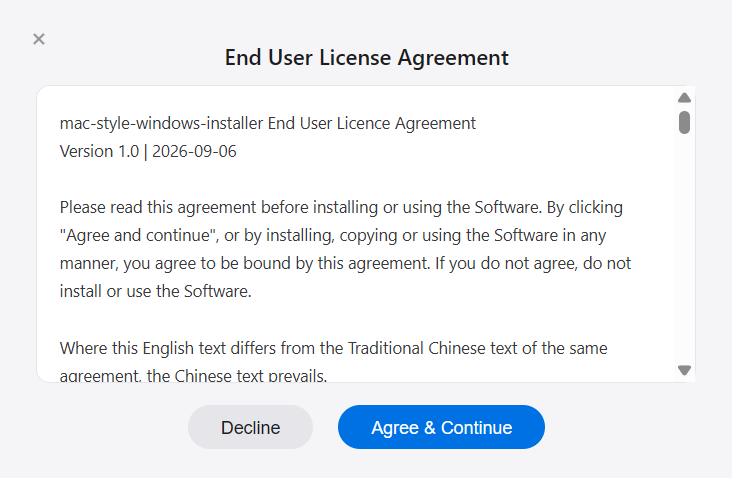
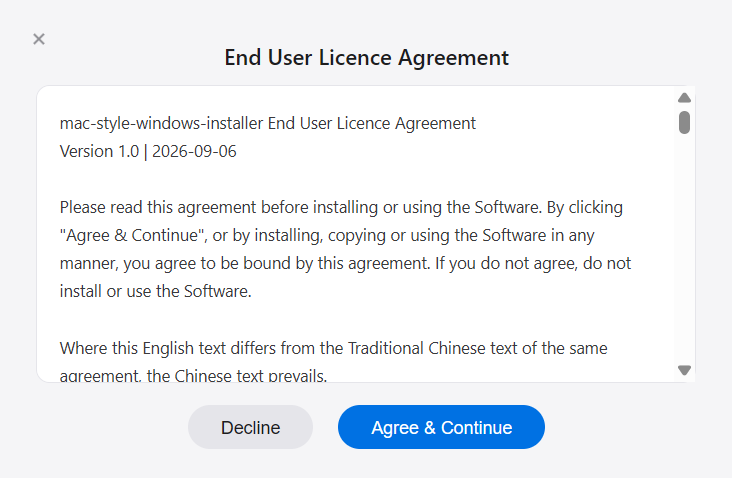
fix(ui): 英文介面的拼法與合約一致，並修正合約引用到一個不存在的按鈕
使用者看畫面時發現的兩處。

一、安裝畫面的標題是 "End User License Agreement"（美式），而框裡的合約
全文通篇用 "Licence"（英式）——同一個畫面兩種拼法。介面統一改用英式，
配置精靈的欄位標籤一併改（只改一處等於把不一致搬到另一個地方）。MIT
License 是專有名稱，維持原樣。

二、合約英文版引用按鈕文字寫 "Agree and continue"，而按鈕實際上是
"Agree & Continue"。合約以「點選該按鈕即表示同意」為成立要件，引用的字與
畫面對不上時，那句話指向一個不存在的按鈕。中文版原本就是對的。

兩條測試釘住：介面不得出現美式的 License Agreement；合約引用的按鈕文字直接
從 ui/index.html 的 btn_accept 讀出來比對，兩種語言各自都要對得上。

Changed region(s): [[0.1503, 0.4686, 0.8415, 0.5272], [0.3005, 0.0879, 0.6913, 0.1464]]

diff --git a/ui/config.html b/ui/config.html
@@ -897,7 +897,7 @@
                 no_file_selected: "No file selected", note_png_icon: "Shown as the icon inside the install window.",
                 label_ico_icon: "Executable Icon (ICO required)", btn_browse_ico: "Choose ICO File",
                 note_ico_icon: "Used as the installer's icon in Windows Explorer.",
-                label_eula: "End User License Agreement (EULA, optional)",
+                label_eula: "End User Licence Agreement (EULA, optional)",
                 note_eula: "Leave empty to skip the agreement screen entirely. You can add multiple language versions and supply the text for each yourself; the end user's version is picked automatically based on their system language, falling back to the \"default/fallback language\" below when there's no match.",
                 btn_add_eula_lang: "+ Add Language Version",
                 label_eula_default_lang: "Default / Fallback Language",

diff --git a/ui/index.html b/ui/index.html
@@ -517,7 +517,7 @@
                 password_wrong_error: "Incorrect password, please try again",
                 password_unusable_error: "This installer is marked as password protected but contains no encrypted application files, so it cannot install. Ask whoever supplied it for a rebuilt version.",
                 btn_password_submit: "OK",
-                eula_title: "End User License Agreement",
+                eula_title: "End User Licence Agreement",
                 btn_decline: "Decline",
                 btn_accept: "Agree & Continue",
                 loading: "Loading...",

diff --git a/tests/test_eula_consistency.py b/tests/test_eula_consistency.py
@@ -161,6 +161,54 @@ class ThePlainTextIsActuallyPlain(unittest.TestCase):
             self.assertGreater(longest, 120, lang)
 
 
+class TheInterfaceSpellsItTheSameWay(unittest.TestCase):
+    """介面的英文字串與合約內文用同一種拼法。
+
+    使用者實際看出來的問題：安裝畫面的標題是 "End User License Agreement"
+    （美式），而框裡的合約全文通篇用 "Licence"（英式）——同一個畫面兩種拼法。
+    兩者哪一種都可以，但必須是同一種。
+    """
+
+    UI_FILES = {
+        "installer": os.path.join(REPO_ROOT, "ui", "index.html"),
+        "config wizard": os.path.join(REPO_ROOT, "ui", "config.html"),
+    }
+
+    def test_the_agreement_uses_the_british_spelling(self):
+        """先確認合約這一邊是哪一種，介面才有對齊的對象。"""
+        self.assertIn("Licence Agreement", _read(PLAIN["en"]))
+
+    def test_no_interface_string_says_license_agreement(self):
+        # 只回報有幾處，不把整份 HTML 塞進失敗訊息裡——那份檔案兩千多行，
+        # 印出來只會把真正的訊息推出畫面外。
+        for name, path in self.UI_FILES.items():
+            found = _read(path).count("License Agreement")
+            self.assertEqual(found, 0,
+                             f"{os.path.basename(path)}（{name}）有 {found} 處"
+                             "用了美式拼法，與合約內文的 Licence 不一致")
+
+    def test_the_mit_licence_keeps_its_own_spelling(self):
+        """MIT License 是專有名稱，不隨這個決定改。"""
+        self.assertIn("MIT License", _read(LICENSE))
+
+    def test_the_agreement_quotes_the_button_that_actually_exists(self):
+        """合約以「點選某個按鈕即表示同意」為成立要件，引用的字要與畫面上的
+        按鈕一字不差。英文版原本寫 "Agree and continue"，而按鈕是
+        "Agree & Continue"——那句話指向一個不存在的按鈕。
+        """
+        source = _read(self.UI_FILES["installer"])
+        for lang, pattern in (("zh-TW", r'btn_accept:\s*"([^"]+)"'),
+                              ("en", r'btn_accept:\s*"([^"]+)"')):
+            labels = re.findall(pattern, source)
+            self.assertTrue(labels, "找不到 btn_accept 的字串")
+        # 兩種語言的翻譯表各有一個 btn_accept，依出現順序對應 zh-TW、en
+        # （i18n 表的排列順序，見 ui/index.html）。
+        self.assertEqual(len(labels), 2, "btn_accept 的數量與預期不符")
+        for label, lang in zip(labels, ("zh-TW", "en")):
+            self.assertIn(label, _read(PLAIN[lang]),
+                          f"{lang} 的合約沒有引用畫面上那個按鈕：{label}")
+
+
 class ThePackagingFlowCanTakeTheAgreementFromAConfigFile(unittest.TestCase):
     """`/released` 的打包步驟靠「設定檔帶條款、旗標帶其餘」這個組合。
 

diff --git a/docs/EULA.md b/docs/EULA.md
@@ -237,7 +237,7 @@
 
 **End User Licence Agreement**
 
-Please read this agreement before installing or using the Software. By clicking "Agree and continue", or by installing, copying or using the Software in any manner, you agree to be bound by this agreement. If you do not agree, do not install or use the Software.
+Please read this agreement before installing or using the Software. By clicking "Agree & Continue", or by installing, copying or using the Software in any manner, you agree to be bound by this agreement. If you do not agree, do not install or use the Software.
 
 Where this English text differs from the Traditional Chinese text of the same agreement, the Chinese text prevails.
 
